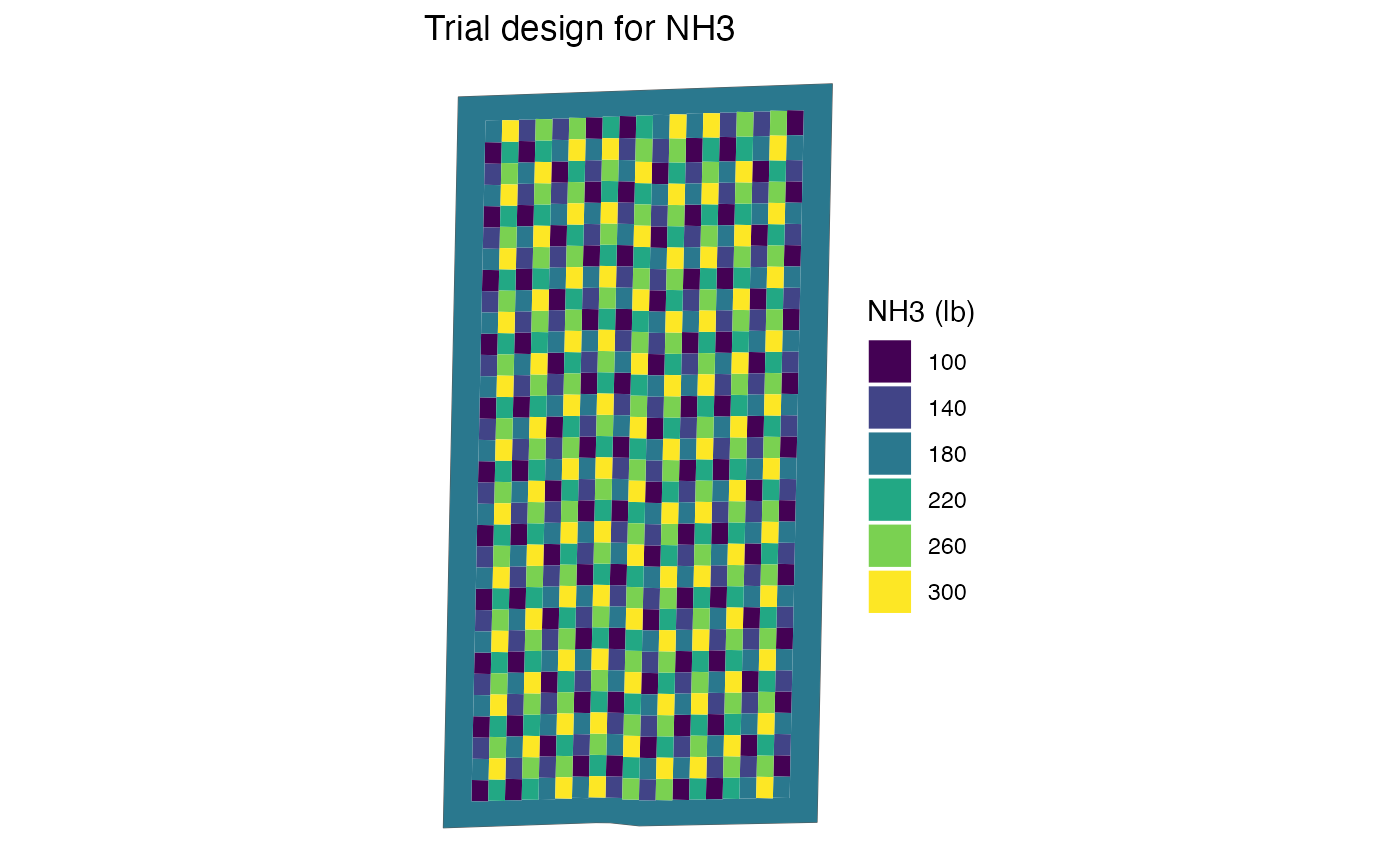
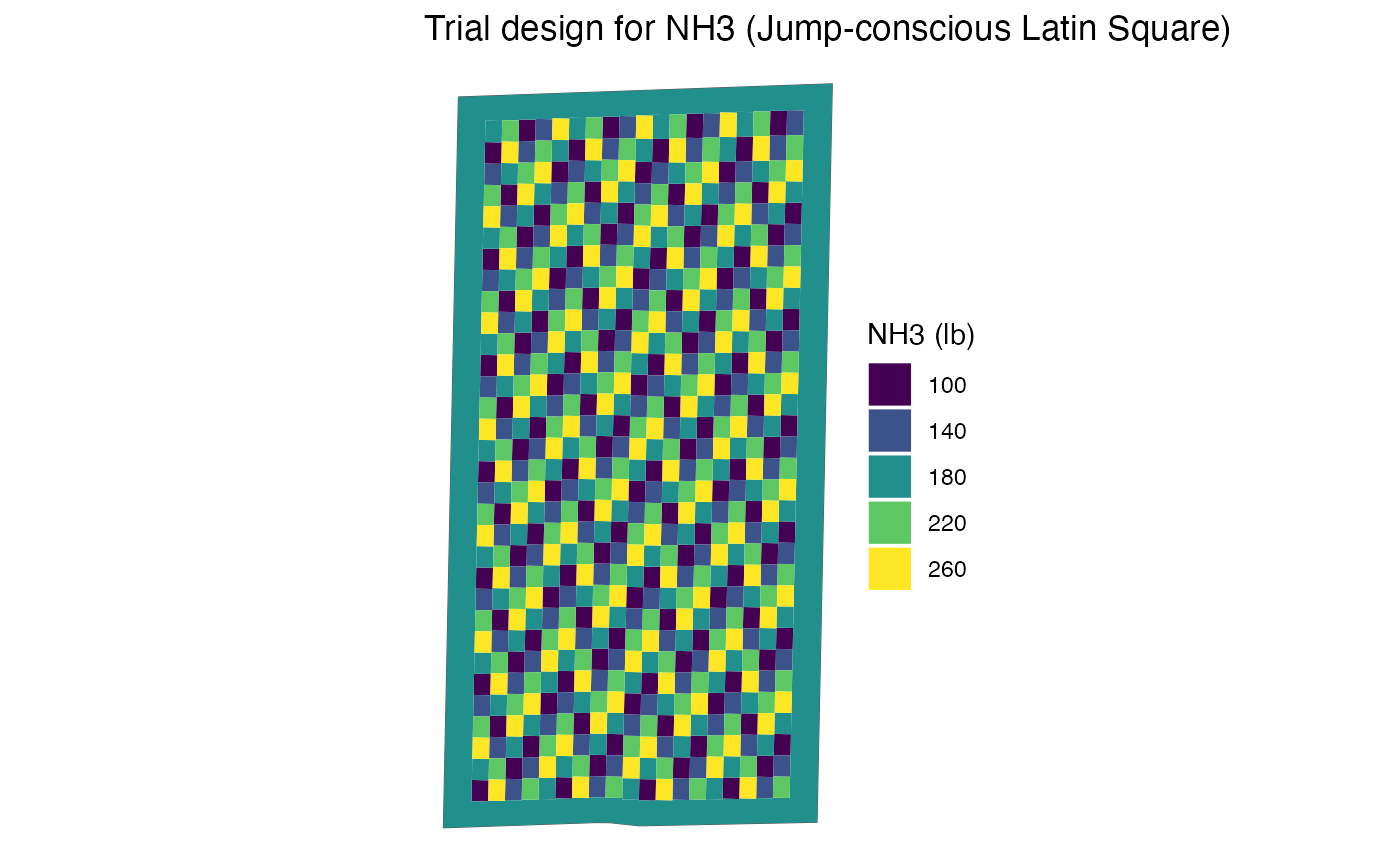
added randomized block design, add design name in figure

Changed region(s): [[0.3379, 0.1249, 0.5836, 0.9364], [0.6143, 0.3434, 0.7064, 0.7179], [0.5221, 0.0, 0.8907, 0.0624]]

diff --git a/docs/articles/trial-design-options.html b/docs/articles/trial-design-options.html
@@ -185,9 +185,31 @@ various trial design options.</p>
 <p><img src="trial-design-options_files/figure-html/unnamed-chunk-8-1.png" width="700"></p>
 </div>
 <div class="section level2">
-<h2 id="jump-consicous-latin-square-jcls">Jump-consicous Latin Square (“jcls”)<a class="anchor" aria-label="anchor" href="#jump-consicous-latin-square-jcls"></a>
+<h2 id="randomized-block-rb">Randomized Block (“rb”)<a class="anchor" aria-label="anchor" href="#randomized-block-rb"></a>
 </h2>
 <div class="sourceCode" id="cb9"><pre class="downlit sourceCode r">
+<code class="sourceCode R"><span><span class="va">n_rate_info</span> <span class="op">&lt;-</span></span>
+<span>  <span class="fu"><a href="../reference/make_input_rate_data.html">make_input_rate_data</a></span><span class="op">(</span></span>
+<span>    plot_info <span class="op">=</span> <span class="va">n_plot_info</span>,</span>
+<span>    gc_rate <span class="op">=</span> <span class="fl">180</span>,</span>
+<span>    unit <span class="op">=</span> <span class="st">"lb"</span>,</span>
+<span>    rates <span class="op">=</span> <span class="fu"><a href="https://rdrr.io/r/base/c.html" class="external-link">c</a></span><span class="op">(</span><span class="fl">100</span>, <span class="fl">140</span>, <span class="fl">180</span>, <span class="fl">220</span>, <span class="fl">260</span><span class="op">)</span>,</span>
+<span>    design_type <span class="op">=</span> <span class="st">"rb"</span>,</span>
+<span>  <span class="op">)</span></span>
+<span></span>
+<span><span class="va">td_rb</span> <span class="op">&lt;-</span></span>
+<span>  <span class="fu"><a href="../reference/assign_rates.html">assign_rates</a></span><span class="op">(</span></span>
+<span>    exp_data <span class="op">=</span> <span class="va">exp_data</span>,</span>
+<span>    rate_info <span class="op">=</span> <span class="va">n_rate_info</span></span>
+<span>  <span class="op">)</span></span></code></pre></div>
+<div class="sourceCode" id="cb10"><pre class="downlit sourceCode r">
+<code class="sourceCode R"><span><span class="fu"><a href="../reference/viz_td.html">viz_td</a></span><span class="op">(</span><span class="va">td_rb</span>, abline <span class="op">=</span> <span class="cn">FALSE</span><span class="op">)</span></span></code></pre></div>
+<p><img src="trial-design-options_files/figure-html/unnamed-chunk-10-1.png" width="700"></p>
+</div>
+<div class="section level2">
+<h2 id="jump-consicous-latin-square-jcls">Jump-consicous Latin Square (“jcls”)<a class="anchor" aria-label="anchor" href="#jump-consicous-latin-square-jcls"></a>
+</h2>
+<div class="sourceCode" id="cb11"><pre class="downlit sourceCode r">
 <code class="sourceCode R"><span><span class="va">n_rate_info</span> <span class="op">&lt;-</span></span>
 <span>  <span class="fu"><a href="../reference/make_input_rate_data.html">make_input_rate_data</a></span><span class="op">(</span></span>
 <span>    plot_info <span class="op">=</span> <span class="va">n_plot_info</span>,</span>
@@ -202,14 +224,14 @@ various trial design options.</p>
 <span>    exp_data <span class="op">=</span> <span class="va">exp_data</span>,</span>
 <span>    rate_info <span class="op">=</span> <span class="va">n_rate_info</span></span>
 <span>  <span class="op">)</span></span></code></pre></div>
-<div class="sourceCode" id="cb10"><pre class="downlit sourceCode r">
+<div class="sourceCode" id="cb12"><pre class="downlit sourceCode r">
 <code class="sourceCode R"><span><span class="fu"><a href="../reference/viz_td.html">viz_td</a></span><span class="op">(</span><span class="va">td_jcls</span>, abline <span class="op">=</span> <span class="cn">FALSE</span><span class="op">)</span></span></code></pre></div>
-<p><img src="trial-design-options_files/figure-html/unnamed-chunk-10-1.png" width="700"></p>
+<p><img src="trial-design-options_files/figure-html/unnamed-chunk-12-1.png" width="700"></p>
 </div>
 <div class="section level2">
 <h2 id="extra-jump-consious-alternate-ejca">Extra Jump-consious Alternate (“ejca”)<a class="anchor" aria-label="anchor" href="#extra-jump-consious-alternate-ejca"></a>
 </h2>
-<div class="sourceCode" id="cb11"><pre class="downlit sourceCode r">
+<div class="sourceCode" id="cb13"><pre class="downlit sourceCode r">
 <code class="sourceCode R"><span><span class="va">n_rate_info</span> <span class="op">&lt;-</span></span>
 <span>  <span class="fu"><a href="../reference/make_input_rate_data.html">make_input_rate_data</a></span><span class="op">(</span></span>
 <span>    plot_info <span class="op">=</span> <span class="va">n_plot_info</span>,</span>
@@ -224,9 +246,9 @@ various trial design options.</p>
 <span>    exp_data <span class="op">=</span> <span class="va">exp_data</span>,</span>
 <span>    rate_info <span class="op">=</span> <span class="va">n_rate_info</span></span>
 <span>  <span class="op">)</span></span></code></pre></div>
-<div class="sourceCode" id="cb12"><pre class="downlit sourceCode r">
+<div class="sourceCode" id="cb14"><pre class="downlit sourceCode r">
 <code class="sourceCode R"><span><span class="fu"><a href="../reference/viz_td.html">viz_td</a></span><span class="op">(</span><span class="va">td_ejca</span>, abline <span class="op">=</span> <span class="cn">FALSE</span><span class="op">)</span></span></code></pre></div>
-<p><img src="trial-design-options_files/figure-html/unnamed-chunk-12-1.png" width="700"></p>
+<p><img src="trial-design-options_files/figure-html/unnamed-chunk-14-1.png" width="700"></p>
 </div>
   </div>
 

diff --git a/docs/reference/make_input_rate_data.html b/docs/reference/make_input_rate_data.html
@@ -105,7 +105,7 @@
 
 
 <dt>design_type</dt>
-<dd><p>(string) type of trial design. available options are "ls", "jcls", "strip", "sparse", and "ejca". See for more details.</p></dd>
+<dd><p>(string) type of trial design. available options are Latin Square ("ls"), Strip ("strip"), Randomized Block ("rb"), Jump-consicous Latin Square ("jcls"), Sparse ("sparse"), and Extra Jump-consious Alternate "ejca". See for more details.</p></dd>
 
 
 <dt>rank_seq_ws</dt>
